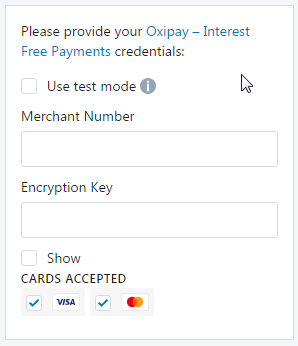
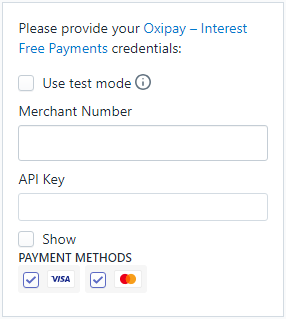
Update Shopify integration guide

diff --git a/docs/platforms/shopify.md b/docs/platforms/shopify.md
@@ -13,7 +13,7 @@ To setup and configure Oxipay on your Shopify store, please use the instructions
 
 2 - Clicking the link to be taken to your store's setting page to add Oxipay.
 
-3 - Once logged in, you will see the prompt below. Click **Add payment gateway**.
+3 - Once logged in, you will see the prompt below. Click **Install payment provider**.
 
 ![5.png](/img/platforms/shopify/5.png)
 
@@ -21,7 +21,7 @@ To setup and configure Oxipay on your Shopify store, please use the instructions
 
 ![6.png](/img/platforms/shopify/6.png)
 
-5 - Bring the **Alternative Payments** section into focus, expand the **Select additional payment method** drop-down and click **Oxipay**.
+5 - Bring the **Alternative Payments** section into focus, expand the **Select additional payment method** drop-down and click **Oxipay - Interest Free Payments**.
 
 <div class="panel">
 	To access this page from your Shopify dashboard, select <b>Settings</b> in the bottom left hand corner, then select select <b>Payment providers</b>.
@@ -29,7 +29,7 @@ To setup and configure Oxipay on your Shopify store, please use the instructions
 
 ![7.png](/img/platforms/shopify/7.png)
 
-6 - Key in you **Merchant Number** and **Encryption Key** then click on **Save**. You can also specify the credit cards you want to allow with Oxipay.
+6 - Enter your **Merchant Number** and **API Key** then click on **Save**. You can also specify the credit cards you want to allow with Oxipay.
 
 ![8.png](/img/platforms/shopify/8.png)
 
